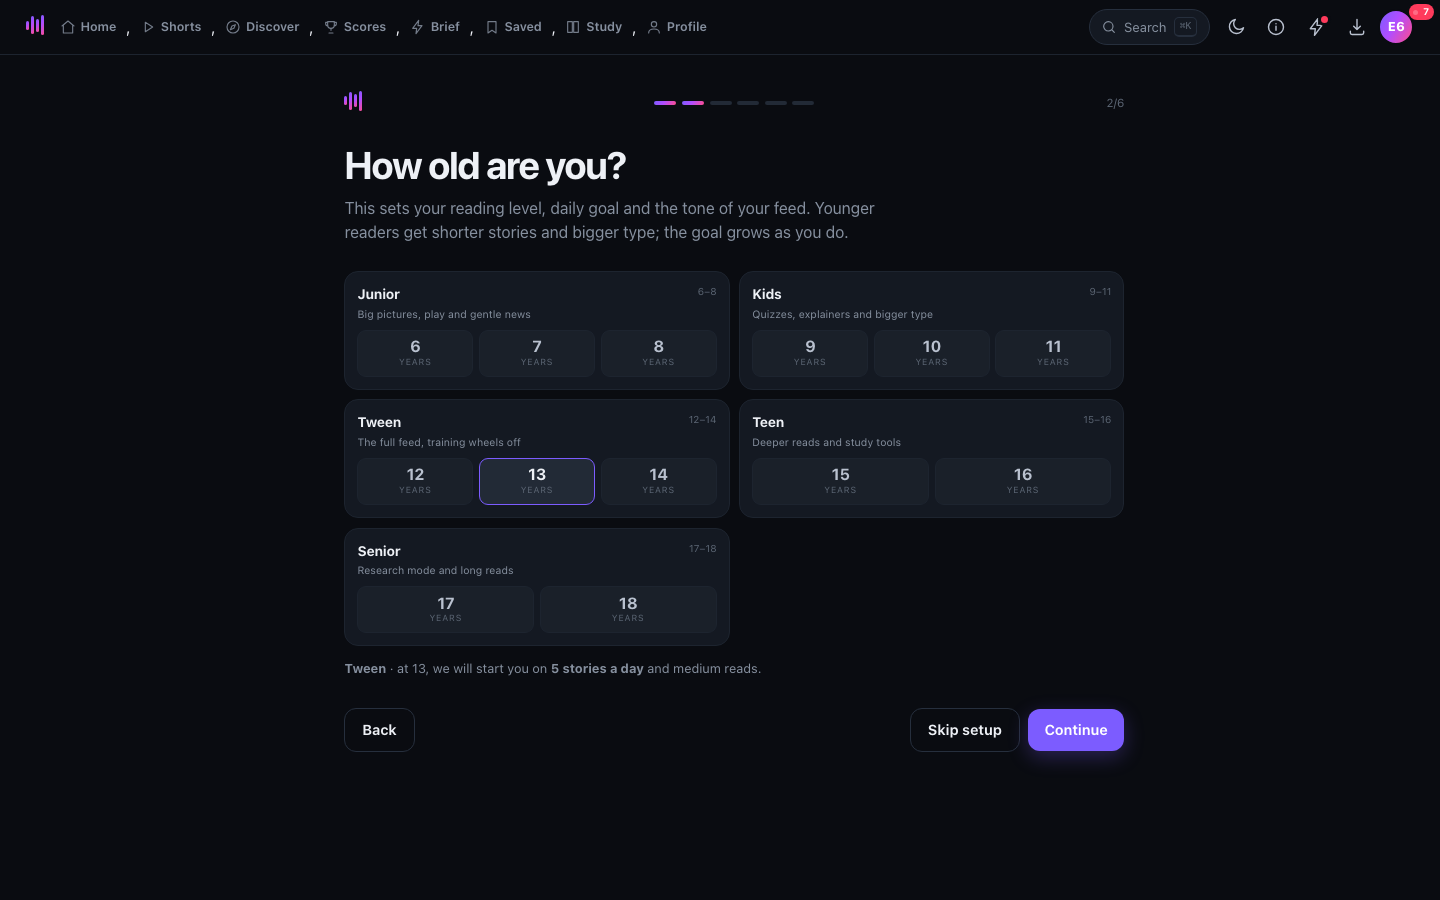
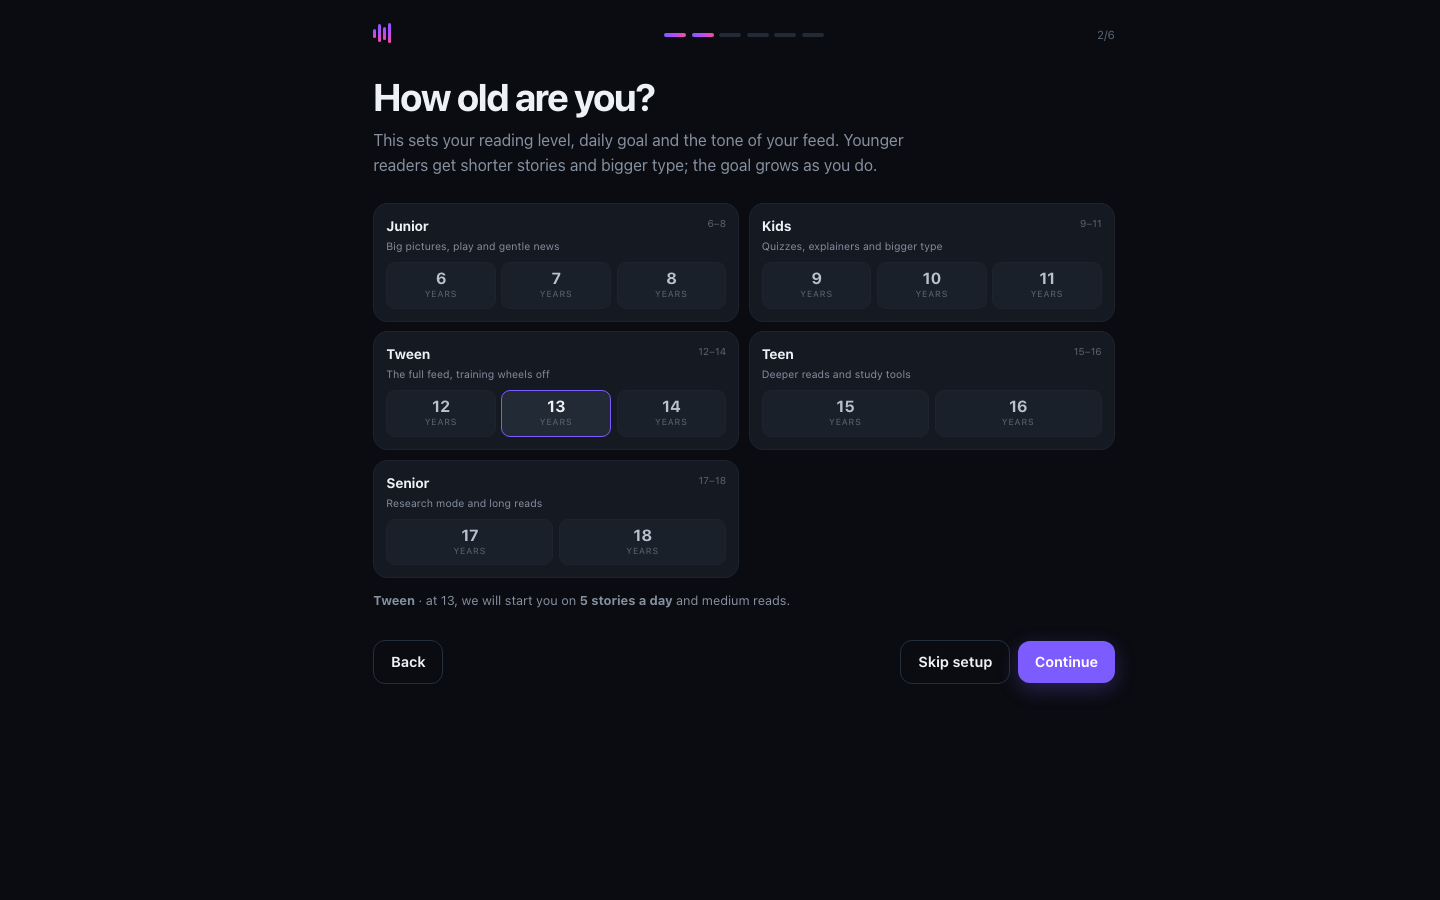
frontend: welcome hero, player stats, emoji-free polish, error fix
- fix errorState escaping the retry button as literal HTML
- new full-bleed welcome hero with animated aurora, large display type,
  metrics and a glass name card; app chrome hidden during onboarding
- sports: Player stats button on live/final games, ESPN box-score modal
  with per-team player tables, headshots and cached summaries
- remove decorative emojis from topics, access labels, reactions, mood,
  journal, badges, widget editor, empty states, sports leagues and legend;
  use monograms, dots and text
- hide account/sign-in/admin UI; auth backend left dormant
- solid accent primary buttons; cleaner Top Story cards and article toolbar
- regenerate PWA screenshots incl. welcome, age bands, player stats
- 119 unit tests and browser harness green

diff --git a/pulse/static/app.css b/pulse/static/app.css
@@ -854,10 +854,15 @@ textarea { resize: vertical; min-height: 5.5rem; }
 body.onboarding-mode .sidebar,
 body.onboarding-mode .rail,
 body.onboarding-mode .topbar,
+body.onboarding-mode .appbar,
 body.onboarding-mode .bottom-nav { display: none !important; }
 body.onboarding-mode .shell { display: block; }
-body.onboarding-mode .main { padding: 0 1.2rem 4rem; }
-body.onboarding-mode .view { max-width: 820px; }
+body.onboarding-mode .main { padding: 0; }
+body.onboarding-mode .view { max-width: none; }
+body.onboarding-mode .onboarding { padding: 1.2rem 1.2rem 4rem; }
+body.onboarding-mode .onboarding--welcome { max-width: none; }
+body.onboarding-mode .onboarding--welcome .onboarding__top,
+body.onboarding-mode .onboarding--welcome .onboarding__foot { max-width: 980px; margin-left: auto; margin-right: auto; }
 
 /* --------------------------------------------------------------- responsive */
 @media (max-width: 1320px) {
@@ -2436,3 +2441,67 @@ body[data-band="junior"] .reel__content { padding-bottom: 2.8rem; }
 .mini-story__fallback { font-weight: 800; font-size: .7rem; letter-spacing: .05em; color: var(--muted); }
 
 .badge--muted { background: var(--surface-2); color: var(--muted); border: 1px solid var(--line); }
+
+/* welcome: a calm, high-contrast tech-brand opening */
+.onboarding--welcome { position: relative; overflow: hidden; }
+.onboarding--welcome::before {
+  content: ''; position: absolute; inset: -20% -10% auto -10%; height: 70%;
+  background:
+    radial-gradient(45% 60% at 20% 30%, color-mix(in srgb, var(--accent) 22%, transparent), transparent 70%),
+    radial-gradient(40% 55% at 80% 20%, color-mix(in srgb, var(--accent-2) 16%, transparent), transparent 70%),
+    radial-gradient(35% 50% at 55% 70%, color-mix(in srgb, var(--accent-3) 12%, transparent), transparent 70%);
+  filter: blur(30px); opacity: .55; pointer-events: none; animation: welcome-aura 18s ease-in-out infinite alternate;
+}
+@keyframes welcome-aura {
+  0% { transform: translate3d(-2%, -1%, 0) scale(1); }
+  100% { transform: translate3d(3%, 2%, 0) scale(1.08); }
+}
+.welcome { position: relative; z-index: 1; max-width: 760px; margin: 2.2rem auto 0; text-align: center; }
+.welcome__aura { position: absolute; inset: 0; pointer-events: none; }
+.welcome__aura span {
+  position: absolute; width: 180px; height: 180px; border-radius: 50%;
+  background: var(--grad); filter: blur(50px); opacity: .18;
+}
+.welcome__aura span:nth-child(1) { left: 8%; top: 10%; }
+.welcome__aura span:nth-child(2) { right: 6%; top: 30%; background: var(--accent-2); }
+.welcome__aura span:nth-child(3) { left: 40%; bottom: 0; background: var(--accent-3); }
+.welcome__kicker { font-size: .68rem; text-transform: uppercase; letter-spacing: .22em; font-weight: 800; color: var(--accent); }
+.welcome__title {
+  font-size: clamp(2.7rem, 6.4vw, 4.8rem); line-height: .96; letter-spacing: -.065em;
+  font-weight: 850; margin: .7rem 0 .9rem;
+}
+.welcome__title em { font-style: normal; color: var(--accent); }
+.welcome__sub { max-width: 540px; margin: 0 auto; color: var(--muted); font-size: 1rem; line-height: 1.6; }
+.welcome__metrics { display: flex; justify-content: center; gap: 2.4rem; margin: 1.5rem 0 1.3rem; }
+.welcome__metrics b { display: block; font-size: 1.45rem; letter-spacing: -.03em; }
+.welcome__metrics span { font-size: .6rem; text-transform: uppercase; letter-spacing: .12em; color: var(--faint); }
+.welcome__card {
+  max-width: 430px; margin: 0 auto; text-align: left; padding: 1rem;
+  background: color-mix(in srgb, var(--surface) 82%, transparent);
+  border: 1px solid var(--line); border-radius: 18px; backdrop-filter: blur(18px);
+  box-shadow: var(--shadow-2);
+}
+.welcome__card label { display: block; margin-bottom: .35rem; }
+.welcome__card input { width: 100%; }
+.welcome__card p { margin-top: .5rem; }
+.welcome__skip { margin-top: 1rem; font-size: .74rem; color: var(--muted); }
+.welcome__skip .link { background: none; border: 0; font: inherit; color: var(--accent); text-decoration: underline; text-underline-offset: 2px; cursor: pointer; }
+@media (max-width: 640px) {
+  .welcome { margin-top: 1.2rem; }
+  .welcome__metrics { gap: 1.4rem; }
+  .welcome__title { font-size: clamp(2.3rem, 11vw, 3.2rem); }
+}
+
+/* player box scores */
+.stats-teams { display: flex; flex-direction: column; gap: 1rem; }
+.stats-team__head { display: flex; align-items: baseline; justify-content: space-between; gap: .5rem; margin-bottom: .35rem; }
+.stats-team__head h3 { font-size: .9rem; }
+.stats-team__head span { font-size: .62rem; color: var(--faint); letter-spacing: .08em; }
+.stats-table-wrap { overflow-x: auto; border: 1px solid var(--line-soft); border-radius: 10px; }
+.stats-table { width: 100%; border-collapse: collapse; font-size: .72rem; }
+.stats-table th { text-align: right; padding: .4rem .5rem; font-size: .58rem; text-transform: uppercase; letter-spacing: .08em; color: var(--faint); border-bottom: 1px solid var(--line); white-space: nowrap; }
+.stats-table th:first-child, .stats-table td:first-child { text-align: left; }
+.stats-table td { padding: .4rem .5rem; text-align: right; border-bottom: 1px solid var(--line-soft); color: var(--text-2); white-space: nowrap; }
+.stats-table tr:last-child td { border-bottom: 0; }
+.stats-player { display: inline-flex; align-items: center; gap: .4rem; text-align: left; }
+.stats-player img, .stats-player__initials { width: 22px; height: 22px; border-radius: 50%; object-fit: cover; background: var(--surface-3); display: grid; place-items: center; font-size: .6rem; font-weight: 800; color: var(--muted); }

diff --git a/pulse/static/js/views/sports.js b/pulse/static/js/views/sports.js
@@ -48,7 +48,7 @@ export async function sportsView(root, ctx) {
     <div class="chip-row" style="margin:.9rem 0 .6rem" id="league-tabs">
       <button class="chip is-on" data-league="all">All sports</button>
       ${leaguesCatalog.map((league) => html`
-        <button class="chip" data-league="${league.slug}">${league.emoji} ${league.label}</button>`)}
+        <button class="chip" data-league="${league.slug}">${league.label}</button>`)}
     </div>
 
     <div class="segmented" role="tablist" style="margin-bottom:1rem" id="filters">
@@ -104,7 +104,7 @@ function renderPinnedBar(root) {
     return html`
       <span class="pin-chip pin-chip--league" data-pin-league="${slug}">
         <button class="pin-chip__body" data-filter-league="${slug}" title="Show ${league.label}">
-          <span aria-hidden="true">${league.emoji}</span>${league.label}
+          ${league.label}
         </button>
         <button class="pin-chip__x" data-unpin-league="${slug}" aria-label="Unpin ${league.label}">×</button>
       </span>`;
@@ -239,6 +239,9 @@ function renderGames(root) {
   body.innerHTML = groups.map(([league, list]) => html`
     ${currentLeague === 'all' ? html`<div class="feed__divider">${leagueLabel(league)}</div>` : ''}
     <div class="game-grid">${list.map((game) => gameCard(game))}</div>`).join('');
+  body.querySelectorAll('[data-game-stats]').forEach((button) => {
+    button.addEventListener('click', () => openGameStats(button.dataset.gameStats, button.dataset.league));
+  });
   body.querySelectorAll('[data-pin-team]').forEach((button) => {
     button.addEventListener('click', async () => {
       const teamId = button.dataset.pinTeam;
@@ -261,7 +264,7 @@ function renderGames(root) {
 
 function leagueLabel(slug) {
   const league = leaguesCatalog.find((item) => item.slug === slug);
-  return league ? `${league.emoji} ${league.label}` : slug.toUpperCase();
+  return league ? league.label : slug.toUpperCase();
 }
 
 function gameCard(game) {
@@ -296,8 +299,55 @@ function gameCard(game) {
         ${game.date && phase === 'pre' ? html`<span>${absDate(game.date)}</span>` : ''}
         ${game.venue ? html`<span>· ${game.venue}</span>` : ''}
         ${game.broadcasts?.length ? html`<span>· ${game.broadcasts.join(', ')}</span>` : ''}
+        ${phase !== 'pre' ? html`<button class="btn btn--sm btn--ghost" data-game-stats="${game.id}" data-league="${game.league}">Player stats</button>` : ''}
       </div>
     </article>`;
+}
+
+async function openGameStats(eventId, league) {
+  const body = document.createElement('div');
+  body.innerHTML = html`<p class="small muted">Loading player stats…</p>`;
+  modal({
+    title: 'Player stats',
+    wide: true,
+    body,
+    actions: [{ label: 'Close', class: 'btn--ghost' }],
+  });
+  try {
+    const data = await get(`/api/sports/${encodeURIComponent(league)}/summary/${encodeURIComponent(eventId)}`, 20);
+    const teams = data.teams || [];
+    if (!teams.length) {
+      body.innerHTML = html`<p class="small muted">Player stats are not available for this game yet. They usually appear once the game starts.</p>`;
+      return;
+    }
+    body.innerHTML = html`
+      <div class="stats-teams">
+        ${teams.map((team) => html`
+          <section class="stats-team">
+            <div class="stats-team__head"><h3>${team.name}</h3><span>${team.abbr || ''}</span></div>
+            <div class="stats-table-wrap">
+              <table class="stats-table">
+                <thead><tr><th>Player</th>${team.labels.slice(0, 6).map((label) => html`<th>${label}</th>`)}</tr></thead>
+                <tbody>
+                  ${team.athletes.map((athlete) => html`
+                    <tr>
+                      <td>
+                        <span class="stats-player">
+                          ${athlete.headshot ? html`<img src="${proxyImg(athlete.headshot)}" alt="" loading="lazy">` : html`<span class="stats-player__initials">${(athlete.name || '?').slice(0, 1)}</span>`}
+                          <span>${athlete.name}</span>
+                        </span>
+                      </td>
+                      ${athlete.stats.slice(0, 6).map((value) => html`<td>${value}</td>`)}
+                    </tr>`)}
+                </tbody>
+              </table>
+            </div>
+          </section>`)}
+      </div>
+      <p class="tiny faint" style="margin-top:.8rem">Stats from ESPN. Cached for one minute.</p>`;
+  } catch (err) {
+    body.innerHTML = html`<p class="small muted">${err.message || 'Could not load player stats.'}</p>`;
+  }
 }
 
 function openPinManager(root) {
@@ -347,7 +397,7 @@ function openPinManager(root) {
       <div class="choice-grid">
         ${leaguesCatalog.map((league) => html`
           <button class="choice ${leagueSelection.has(league.slug) ? 'is-on' : ''}" data-league-toggle="${league.slug}">
-            <span class="choice__icon">${league.emoji}</span><span>${league.label}</span>
+            <span>${league.label}</span>
           </button>`)}
       </div>
       <p class="tiny muted" style="margin:1rem 0 .35rem">Teams playing today</p>

diff --git a/pulse/static/js/views/misc.js b/pulse/static/js/views/misc.js
@@ -1148,7 +1148,7 @@ export async function onboardingView(root, ctx) {
     const key = ONBOARD_STEPS[step];
     const selectedTopics = selectedTopicCount();
     root.innerHTML = html`
-      <div class="onboarding">
+      <div class="onboarding ${key === 'welcome' ? 'onboarding--welcome' : ''}">
         <div class="onboarding__top">
           <a class="brand" href="/" data-link><span class="brand__pulse"><span></span><span></span><span></span><span></span></span><span class="brand__name">Pulse</span></a>
           <div class="onboarding__dots" aria-label="Step ${step + 1} of ${ONBOARD_STEPS.length}">
@@ -1247,18 +1247,22 @@ export async function onboardingView(root, ctx) {
 function stepMarkup(key, draft, boot, selectedTopics, editing = false) {
   if (key === 'welcome') {
     return html`
-      <h1>News that keeps up<br>with you.</h1>
-      <p class="onboarding__sub">${boot.catalog?.sources || 300} sources, live scores, AI overviews and a permanent archive. Two minutes of setup and the feed is yours.</p>
-      <div class="onboarding__body">
-        <label class="tiny muted" for="name" style="display:block;margin-bottom:.35rem">What should we call you?</label>
-        <input id="name" type="text" maxlength="40" placeholder="First name or nickname" value="${draft.name}" autocomplete="given-name">
-        <div class="grid-3" style="margin-top:1.2rem">
-          <div class="card card-pad"><b class="small">300+ sources</b><p class="tiny muted">Every major outlet, all topics.</p></div>
-          <div class="card card-pad"><b class="small">Overviews</b><p class="tiny muted">Know the story before you commit.</p></div>
-          <div class="card card-pad"><b class="small">Live scores</b><p class="tiny muted">NBA, NFL, football and more.</p></div>
+      <div class="welcome">
+        <div class="welcome__aura" aria-hidden="true"><span></span><span></span><span></span></div>
+        <p class="welcome__kicker">Pulse</p>
+        <h1 class="welcome__title">The news,<br><em>without the noise.</em></h1>
+        <p class="welcome__sub">A personal front page for school, curiosity and the things you actually care about. Built to be read, not doomscrolled.</p>
+        <div class="welcome__metrics">
+          <div><b>${boot.catalog?.sources || 336}</b><span>sources</span></div>
+          <div><b>${(boot.topics || []).length || 20}</b><span>topics</span></div>
+          <div><b>0</b><span>ads</span></div>
         </div>
-        <p class="tiny faint" style="margin-top:1rem">Everything stays on your device. No ads, no tracking, no account required.</p>
-        ${!editing ? html`<p class="small muted" style="margin-top:.9rem">In a hurry? <button class="link" id="skip-welcome" style="background:none;border:0;font:inherit">Skip the survey</button> and start with a general feed — you can personalise it any time from Profile.</p>` : ''}
+        <div class="welcome__card">
+          <label class="tiny muted" for="name">What should we call you?</label>
+          <input id="name" type="text" maxlength="40" placeholder="First name or nickname" value="${draft.name}" autocomplete="given-name">
+          <p class="tiny faint">No account. No tracking. You can change everything later.</p>
+        </div>
+        ${!editing ? html`<p class="welcome__skip">In a hurry? <button class="link" id="skip-welcome">Skip the survey</button> and start with a general feed.</p>` : ''}
       </div>`;
   }
   if (key === 'grade') {

diff --git a/pulse/static/js/ui.js b/pulse/static/js/ui.js
@@ -285,7 +285,7 @@ export function errorState(node, message, retry = null) {
       <div class="empty__mark"></div>
       <h2>That didn't load</h2>
       <p>${message || 'Check your connection and try again.'}</p>
-      ${retry ? '<button class="btn btn--ghost" style="margin-top:1rem" data-retry>Try again</button>' : ''}
+      ${retry ? raw('<button class="btn btn--ghost" style="margin-top:1rem" data-retry>Try again</button>') : ''}
     </div>`;
   if (retry) node.querySelector('[data-retry]')?.addEventListener('click', retry);
 }

diff --git a/pulse/sports.py b/pulse/sports.py
@@ -243,6 +243,66 @@ def all_scoreboards(*, force: bool = False, leagues: list[str] | None = None, de
     }
 
 
+def game_summary(slug: str, event_id: str) -> dict:
+    """Player box-score leaders for one game, cached briefly."""
+    league = LEAGUE_BY_SLUG.get(slug)
+    if league is None:
+        raise ValueError(f"Unknown league {slug!r}")
+    key = f"summary:{slug}:{event_id}"
+    cached = _MEMORY.get(key)
+    if cached and minutes_since(cached[1].get("fetched_at")) * 60 < 60:
+        return cached[1]
+    row = db.query_one("SELECT payload, fetched_at FROM sports_cache WHERE key=?", (key,))
+    if row and (minutes_since(row["fetched_at"]) * 60) < 60:
+        try:
+            payload = json.loads(row["payload"])
+            _MEMORY[key] = (time.time(), payload)
+            return payload
+        except (ValueError, TypeError):
+            pass
+    url = f"{settings.espn_base}/apis/site/v2/sports/{league.path}/summary?event={event_id}"
+    try:
+        data = _client.get_json(url, timeout=12, retries=1)
+    except FetchError as exc:
+        log.warning("summary %s/%s failed: %s", slug, event_id, exc)
+        return {"event_id": event_id, "league": slug, "teams": [], "error": str(exc), "fetched_at": iso()}
+    teams = []
+    for block in (data.get("boxscore") or {}).get("players") or []:
+        team = block.get("team") or {}
+        stats = (block.get("statistics") or [{}])[0]
+        labels = [str(label) for label in (stats.get("labels") or [])]
+        athletes = []
+        for entry in (stats.get("athletes") or [])[:8]:
+            athlete = entry.get("athlete") or {}
+            name = athlete.get("displayName") or athlete.get("shortName") or ""
+            if not name:
+                continue
+            athletes.append({
+                "name": name,
+                "short": athlete.get("shortName") or name,
+                "headshot": athlete.get("headshot") or None,
+                "stats": [str(value) for value in (entry.get("stats") or [])],
+            })
+        if labels and athletes:
+            teams.append({
+                "name": team.get("displayName") or team.get("name") or "Team",
+                "abbr": team.get("abbreviation") or "",
+                "labels": labels,
+                "athletes": athletes,
+            })
+    payload = {"event_id": event_id, "league": slug, "teams": teams, "fetched_at": iso(), "error": None}
+    _MEMORY[key] = (time.time(), payload)
+    try:
+        db.execute(
+            "INSERT INTO sports_cache(key, payload, fetched_at) VALUES(?,?,?) "
+            "ON CONFLICT(key) DO UPDATE SET payload=excluded.payload, fetched_at=excluded.fetched_at",
+            (key, json.dumps(payload), iso()),
+        )
+    except Exception:
+        pass
+    return payload
+
+
 def league_scores(slug: str) -> dict:
     payload = scoreboard(slug)
     return payload

diff --git a/pulse/api.py b/pulse/api.py
@@ -399,6 +399,9 @@ def handle(request: Request) -> tuple[int, dict, dict]:
         if match and method == "GET":
             return 200, _source_detail(match.group(1), profile), {}
 
+        match = re.fullmatch(r"/api/sports/([\w.]+)/summary/(\d+)", path)
+        if match and method == "GET":
+            return 200, sports.game_summary(match.group(1), match.group(2)), {}
         match = re.fullmatch(r"/api/sports/([a-z0-9.]+)", path)
         if match and method == "GET":
             return 200, sports.league_scores(match.group(1)), {}
